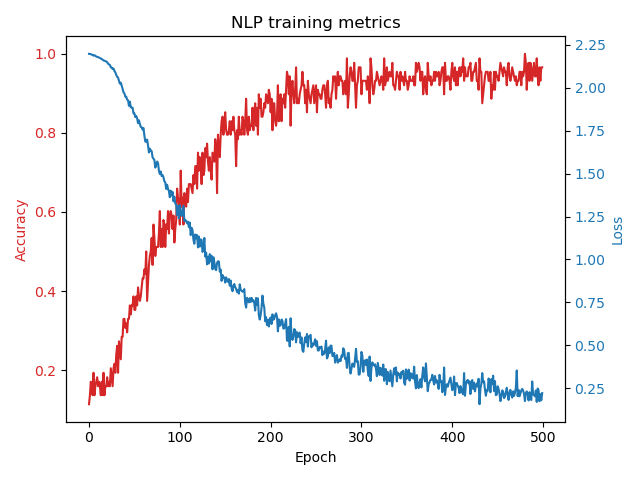
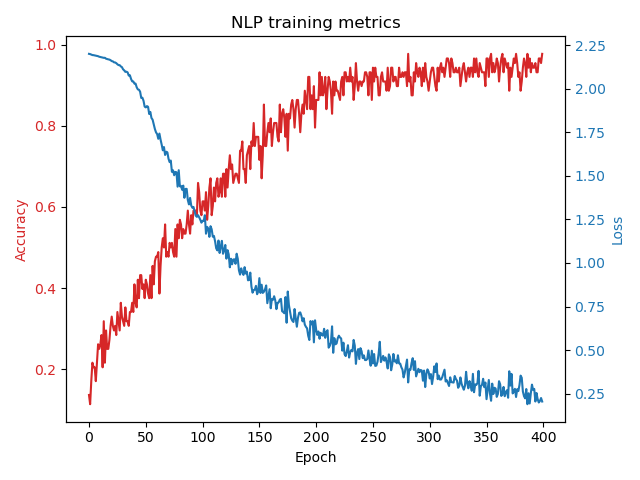
implement max days check + metrics testing

diff --git a/client.py b/client.py
@@ -161,8 +161,8 @@ def main():
             valid = False
             while valid == False:
                 stock = input("Which stock would you like to select? ")
-                days = input("How many days ahead should I predict? ")
-                if(isTicker(stock) and days.isdigit()):
+                days = input("How many days ahead should I predict? (max 30): ")
+                if(isTicker(stock) and days.isdigit() and int(days) <= 30):
                     valid = True
                 else:
                     print("Invalid input. Please try again.\n")
@@ -196,8 +196,8 @@ def main():
                     
             valid = False
             while valid == False:
-                days = input("How many days ahead should I predict? ")
-                if days.isdigit():
+                days = input("How many days ahead should I predict? (max 30): ")
+                if days.isdigit() and int(days) <= 30:
                     valid = True
                 else:
                     print("Invalid input. Please try again.\n")
@@ -209,7 +209,8 @@ def main():
                 print("\nPredicting...\n")
                 data_rec = send_stock(stockList)
                 data_round = np.round(data_rec, 2)
-                print(f"The daily returns of {stockList[0]} over {days} days will be: {data_round}\n")
+                print(f"The daily returns of {stockList[0]} over {days} days will be: \n")
+                print(data_round)
                 print("Here is a graph of my predictions, a copy has been saved in the 'Plots' folder. Please close the plot window to continue.")
                 plots.plot_daily_returns(stockList[0], data_rec)
             else: #List contains more than one stock and no. of days, so must contain multiple stocks
@@ -228,7 +229,7 @@ def main():
                     if graph_type == 1 or graph_type == 2:
                         valid = True
                     else:
-                        print(f"{optimise_type} is not a valid input, please enter 1 or 2 accordingly.\n")
+                        print(f"{graph_type} is not a valid input, please enter 1 or 2 accordingly.\n")
                 print("Here is a graph of my predictions, a copy has been saved in the 'Plots' folder. Please close the plot window to continue.")
 
                 if graph_type == 1:
@@ -246,8 +247,8 @@ def main():
             valid = False
             while valid == False:
                 stock = input("Which stock would you like to select? ")
-                days = input("How many days ahead should I predict? ")
-                if(isTicker(stock) and days.isdigit()):
+                days = input("How many days ahead should I predict? (max 30): ")
+                if(isTicker(stock) and days.isdigit() and int(days) <= 30):
                     valid = True
                 else:
                     print("Invalid input. Please try again.\n")
@@ -264,8 +265,8 @@ def main():
             valid = False
             while valid == False:
                 stock = input("Which stock would you like to select? ")
-                days = input("How many days ahead should I predict? ")
-                if(isTicker(stock) and days.isdigit()):
+                days = input("How many days ahead should I predict? (max 30): ")
+                if(isTicker(stock) and days.isdigit() and int(days) <= 30):
                     valid = True
                 else:
                     print("Invalid input. Please try again.\n")
@@ -282,9 +283,9 @@ def main():
             valid = False
             while valid == False:
                 stock = input("Which stock would you like to select? ")
-                days = input("How many days ahead should I predict? ")
+                days = input("How many days ahead should I predict? (max 30): ")
                 rfr = input("What risk free rate would you like to use? ")
-                if(isTicker(stock) and days.isdigit() and isfloat(rfr)):
+                if(isTicker(stock) and days.isdigit() and int(days) <= 30 and isfloat(rfr)):
                     valid = True
                 else:
                     print("Invalid input. Please try again.\n")
@@ -315,8 +316,8 @@ def main():
             
             valid = False
             while valid == False:
-                days = input("How many days ahead should I predict? ")
-                if days.isdigit():
+                days = input("How many days ahead should I predict? (max 30): ")
+                if days.isdigit() and int(days) <= 30:
                     valid = True
                 else:
                     print("Invalid input. Please try again.\n")

diff --git a/NLP_testing.py b/NLP_testing.py
@@ -64,7 +64,7 @@ model.compile(loss = "sparse_categorical_crossentropy", optimizer = "adam", metr
 
 #train the model
 print("\nChatbot is loading...\n")
-hist = model.fit(xtrain, ytrain, epochs=500, verbose = 0)
+hist = model.fit(xtrain, ytrain, epochs=400, verbose = 0)
 
 fig, ax1 = plt.subplots()
 
